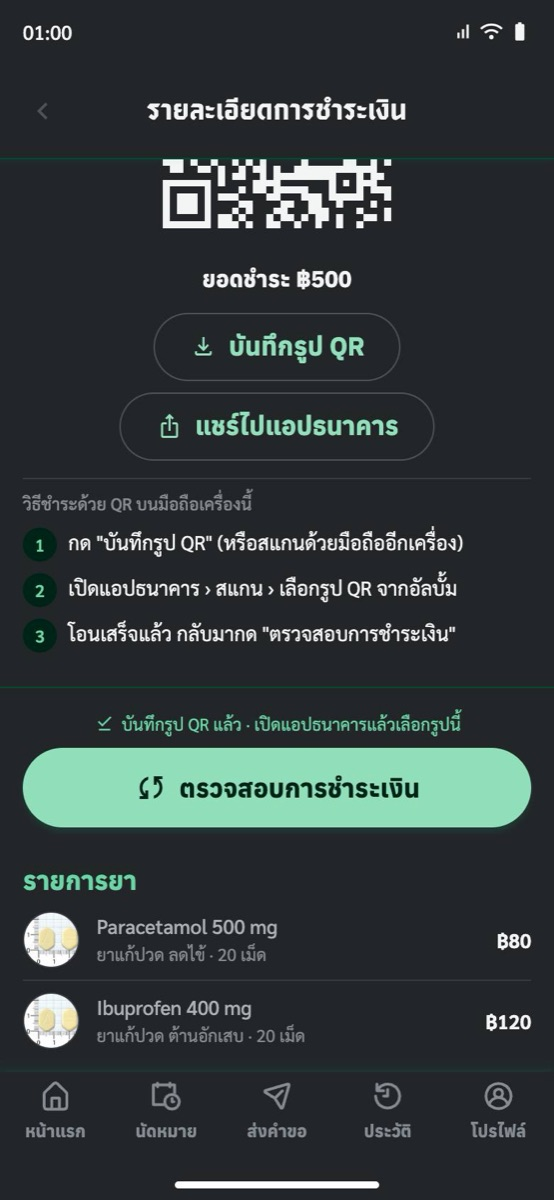
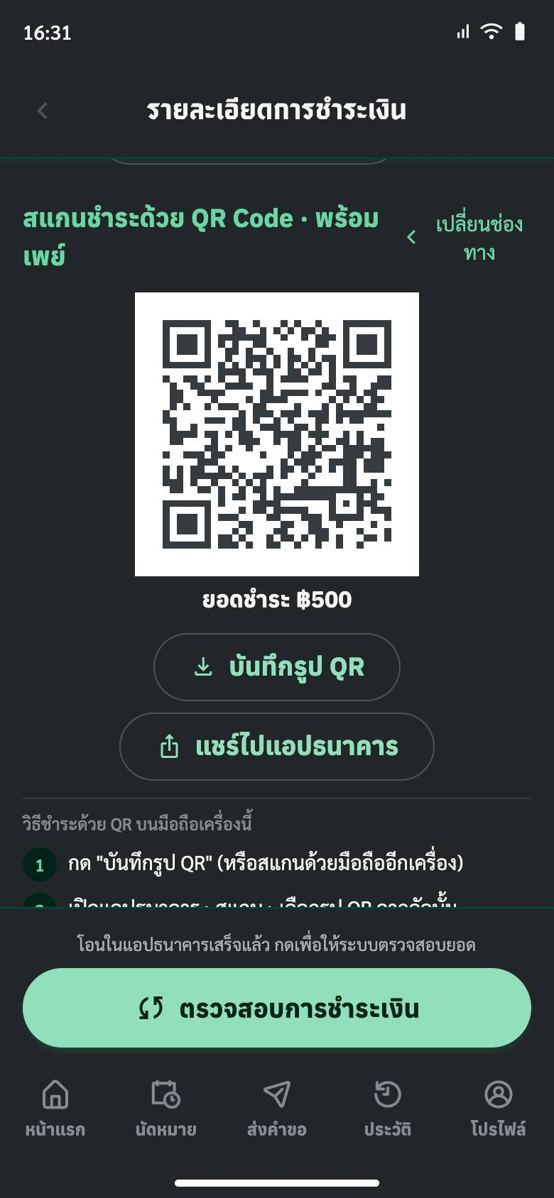
Mobile ปรับตามผลทดสอบ: ธีมมืด QR เข้มบนขาว + กล่องแจ้งสีธีมมืด (bma.mobile#105 · mih-design#26)

diff --git a/mobile-ux-fixes.html b/mobile-ux-fixes.html
@@ -89,9 +89,9 @@
 ตรวจเพิ่ม 21 พ.ย. 69: แผ่นชำระเงินที่เปิดจากหน้าแรก (การ์ด "ชำระเงิน" › "ชำระ") เดินครบถึงชำระสำเร็จ — เจอเนื้อหาโผล่ลอดใต้ปุ่มติดล่าง 16 px แก้แล้ว · หน้า /m/pharmacy/payment "เพิ่มรายละเอียด" · "เปลี่ยนรายละเอียด" · ปิดแผ่น ทำงานเหมือนเดิม · แตะ QR แล้วปิดแผ่นวิธีรับยา ไม่เด้งไปหน้า QR เอง · บันทึกรูป QR ได้ไฟล์ PNG ทั้ง Chrome และ WebKit (เอนจินเดียวกับ Safari)
 เครื่องจำลอง iPhone 13 (WebKit) และ Pixel 7: เดินครบถึงชำระสำเร็จ · ไม่มี error · ไม่มี scroll แนวนอน · ปุ่มสูง ≥ 44 px · ปุ่มแชร์ขึ้น (เครื่องรองรับแชร์ไฟล์) · บันทึกรูปได้ไฟล์ · เจอแถบแจ้ง "บันทึกรูป QR แล้ว" ลอยทับปุ่ม "ตรวจสอบการชำระเงิน" → ย้ายข้อความไปอยู่ในบรรทัดเหนือปุ่ม ไม่ลอยแล้ว
 บัตรเครดิต (บิล ฿1,250) ที่ 390 · 768 · 1024 · 1440: จอเลื่อนไปฟอร์มบัตร · ช่องกรอก 16 px · ชำระสำเร็จ
-ธีมมืด: ขั้นตอนครบ · พบของเดิม 2 จุดที่ยังไม่แก้ (รอตัดสินใจ) — QR กลับสีเป็นจุดขาวบนพื้นดำ (ชิ้นกลาง FakeQR ใช้ 5 หน้า) · กล่องแจ้งสีฟ้ายังเป็นสีสว่าง (ธีมมืดมือถือยังไม่มี token สี alert)
+ธีมมืด: ขั้นตอนครบ · แก้ของเดิม 2 จุดแล้ว — QR เป็นสีเข้มบนพื้นขาวทุกธีม (token ใหม่ใน mih-design · ชิ้นกลาง FakeQR ใช้ 5 หน้า: ชำระเงิน · นัดหมาย · บัตรผู้ป่วยดิจิทัล · บัตรคิว) · กล่องแจ้งใช้สี alert ของธีมมืด
 ยังไม่ได้ตรวจ: แผ่นแชร์ของระบบ และการบันทึกรูปลงอัลบั้มบนมือถือเครื่องจริง — เครื่องจำลองเปิดแผ่นแชร์จริงไม่ได้</blockquote>
-  <p class="gh">ตรวจเพิ่ม</p><div class="shots phone"><figure><img src="mobile-usability/fix-2026-11-21/shots/after-8-home-sheet.jpg?v=20261121b" alt="แผ่นจากหน้าแรก · ปุ่มติดล่างปิดสนิทหลังแก้" loading="lazy"><figcaption>แผ่นจากหน้าแรก · ปุ่มติดล่างปิดสนิทหลังแก้</figcaption></figure><figure><img src="mobile-usability/fix-2026-11-21/shots/after-9-pharmacy-page.jpg?v=20261121b" alt="/m/pharmacy/payment · ส่วนรับยาทำงานเหมือนเดิม" loading="lazy"><figcaption>/m/pharmacy/payment · ส่วนรับยาทำงานเหมือนเดิม</figcaption></figure><figure><img src="mobile-usability/fix-2026-11-21/shots/after-10-iphone-toast.jpg?v=20261121d" alt="iPhone 13 · หน้า QR" loading="lazy"><figcaption>iPhone 13 · หน้า QR</figcaption></figure><figure><img src="mobile-usability/fix-2026-11-21/shots/after-11-dark-qr.jpg?v=20261121d" alt="ธีมมืด · ข้อความบันทึกรูปอยู่เหนือปุ่ม · QR กลับสี (ของเดิม)" loading="lazy"><figcaption>ธีมมืด · ข้อความบันทึกรูปอยู่เหนือปุ่ม · QR กลับสี (ของเดิม)</figcaption></figure><figure><img src="mobile-usability/fix-2026-11-21/shots/after-12-dark-channels.jpg?v=20261121d" alt="ธีมมืด · กล่องแจ้งยังเป็นสีสว่าง (ของเดิม)" loading="lazy"><figcaption>ธีมมืด · กล่องแจ้งยังเป็นสีสว่าง (ของเดิม)</figcaption></figure></div>
+  <p class="gh">ตรวจเพิ่ม</p><div class="shots phone"><figure><img src="mobile-usability/fix-2026-11-21/shots/after-8-home-sheet.jpg?v=20261121b" alt="แผ่นจากหน้าแรก · ปุ่มติดล่างปิดสนิทหลังแก้" loading="lazy"><figcaption>แผ่นจากหน้าแรก · ปุ่มติดล่างปิดสนิทหลังแก้</figcaption></figure><figure><img src="mobile-usability/fix-2026-11-21/shots/after-9-pharmacy-page.jpg?v=20261121b" alt="/m/pharmacy/payment · ส่วนรับยาทำงานเหมือนเดิม" loading="lazy"><figcaption>/m/pharmacy/payment · ส่วนรับยาทำงานเหมือนเดิม</figcaption></figure><figure><img src="mobile-usability/fix-2026-11-21/shots/after-10-iphone-toast.jpg?v=20261121d" alt="iPhone 13 · หน้า QR" loading="lazy"><figcaption>iPhone 13 · หน้า QR</figcaption></figure><figure><img src="mobile-usability/fix-2026-11-21/shots/after-11-dark-qr.jpg?v=20261121e" alt="ธีมมืด · QR เข้มบนพื้นขาว สแกนได้" loading="lazy"><figcaption>ธีมมืด · QR เข้มบนพื้นขาว สแกนได้</figcaption></figure><figure><img src="mobile-usability/fix-2026-11-21/shots/after-12-dark-channels.jpg?v=20261121e" alt="ธีมมืด · กล่องแจ้งพื้นน้ำเงินเข้ม" loading="lazy"><figcaption>ธีมมืด · กล่องแจ้งพื้นน้ำเงินเข้ม</figcaption></figure></div>
   </div>
   <div class="card" id="pay-1"><div class="head"><div><h2>1.1 · จอแรกไม่มีปุ่มจ่าย และช่องทางชำระเงินเป็นสีเทากดไม่ได้</h2><p class="sum">ผลทดสอบ U62 · U81 · U100 · U119 (ความรุนแรง 3/4 · H1 สถานะระบบ)</p></div><span class="chip nw c-green">แก้แล้ว · ตรวจในแอปจริง</span></div>
 <dl class="kv"><dt>ระบบที่แก้</dt><dd>Mobile App · หน้า "รายละเอียดการชำระเงิน"</dd><dt>Kiosk (น้องดูแล)</dt><dd>—</dd></dl>
